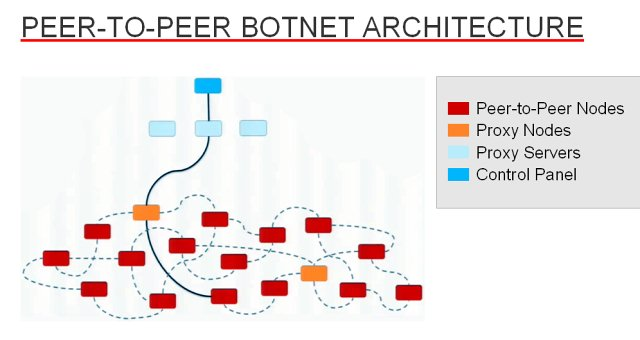
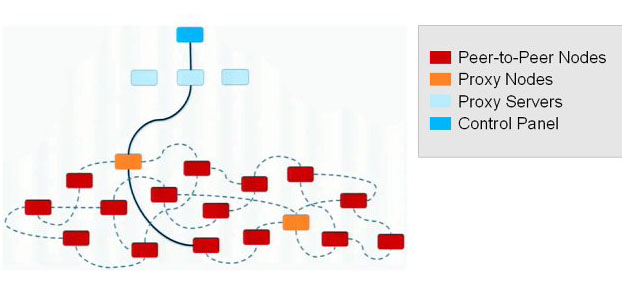
Used cropped image instead of one with title.

Changed region(s): [[0.0, 0.0311, 1.0, 0.9654]]

diff --git a/main.tex b/main.tex
@@ -71,7 +71,7 @@ Generally speaking, botnets conform to the analogy of a bank robbery: first, the
 \cite{wikipedia:phishing}.  On the other hand, botnets that use trojan-horses like Zeus collect sensitive information from victims by injecting web content into otherwise secure websites, keylogging, and remote access\cite{defcon:javascript}
 \cite{blackhat:zeus}
 \cite{defcon:spam}
-\cite{wikipedia:trojan}. In most schemes, information and commands are exchanged between the harvester bots (which collect information) and the botmaster through an impure peer-to-peer network through the use of relay nodes and proxy servers. Innovative schemes, such as the VOIP botnet proposed by Itzik Kotler et. al of Security Art, would improve on the traditional botnet model by eliminating the need to exfiltrate data to a central server\cite{defcon:voip}.
+\cite{wikipedia:trojan}. In most schemes, information and commands are exchanged between the harvester bots (which collect information) and the botmaster through an impure peer-to-peer network through the use of relay nodes and proxy servers. Innovative schemes, such as the VOIP botnet proposed by Itzik Kotler et al. of Security Art, would improve on the traditional botnet model by eliminating the need to exfiltrate data to a central server\cite{defcon:voip}.
 
 Our objective in this paper is to explain the way in which bot programs are implemented, with the hope that future development can address each of the weaknesses they rely on for their continued existence.  In this paper, we examine features across all stages of the bot program, as implemented by real botnets such as Zeus and ZeroAccess.
 
@@ -152,7 +152,7 @@ Due to the prominence of IRC as a method for botnets to communicate, many corpor
 
 HTTP is often combined with peer-to-peer networking in a \emph{gossip protocol}. This kind of protocol relies on nodes passing on information that is learned to other nodes, thereby propagating it throughout the network. Gossip protocols are employed by peer-to-peer botnets \cite{defcon:prowling}, but can be utilized by hierarchical command and control botnets as well. Due to the need for communication to spread by nodes, the propagation speed is usually slower than direct messaging. However in larger botnets, this reduces the strain on the central C\&C server by delegating the command passing to other bots; it also has the effect of diffusing traffic throughout the botnet, thereby improving the network's overall resilience and reducing the likelihood that the botnet will be detected.
 
-Ollmann et. al classified gossip-based C\&C botnets into several topological groups\cite{ollmann:topology}, some of which appear to have counterparts to the IRC substructures. One of these is called the \emph{Star topology}. In this setup, each bot communicates directly with a single, centralized C\&C server. Another topology, similar to the idea of bridged botnets, is the multi-server C\&C topology. As the name implies, this method introduces several servers that act as command and control servers to the botnet. In a hierarchical topology, bots are organized in a hierarchy, and bots that are higher up in the hierarchy can issue commands to bots further down in the tree.
+Ollmann et al. classified gossip-based C\&C botnets into several topological groups\cite{ollmann:topology}, some of which appear to have counterparts to the IRC substructures. One of these is called the \emph{Star topology}. In this setup, each bot communicates directly with a single, centralized C\&C server. Another topology, similar to the idea of bridged botnets, is the multi-server C\&C topology. As the name implies, this method introduces several servers that act as command and control servers to the botnet. In a hierarchical topology, bots are organized in a hierarchy, and bots that are higher up in the hierarchy can issue commands to bots further down in the tree.
 
 \section{How Data is Exfiltrated from Harvester Bots}
 %Evolution of Collection/Anonymity (the getaway car)
@@ -168,7 +168,7 @@ There are several alternative methods as well. Several botnets, such as Mevade (
 
 The reason for the attention on this botnet was due to the sudden increase in traffic within the Tor network after Mevade changed their communication methods \cite{darkreading:tor}. Evidently botnets risk detection if they cause too much suspicious network traffic, and so should have design considerations to that end. Most botnets are programmed so that an individual bot does not perform any actions without instructions from the botmaster\cite{honeynet:appendix}. 
 
-As another example of minimizing suspicious traffic, a commercial botnet was developed to buy cars included error validation functions\cite{defcon:cars}. This functionality was added to avoid an IP ban from server administrators; had there been no error validation, the server administrators could’ve potentially noticed that a large amount of invalid traffic was being generated from a single IP address.
+As another example of minimizing suspicious traffic, a commercial botnet was developed to buy cars included error validation functions\cite{defcon:cars}. This functionality was added to avoid an IP ban from server administrators; had there been no error validation, the server administrators could have potentially noticed that a large amount of invalid traffic was being generated from a single IP address.
 
 Recently, researchers identified the potential for VOIP-based botnets.  VOIP, or voice over IP, is a protocol used for performing phone and conference calls over the internet.  A VOIP-based botnet could leverage any unused conference call numbers in order to exfiltrate data by phone.  By using digital-tone multi-frequency signalling as a means of encoding and decoding between binary and sound, hackers would be utilize the channel in the same way that IP uses bytes.  In addition to providing the botmaster with an anonymous form of communication, VOIP botnets:
 
@@ -220,7 +220,7 @@ Common disruption techniques include sinkholing (in which bots are redirected to
 \item Fallback Prevention - many botnets have mechanisms that allow the bots to communicate directly with the command and control center in the event of a sinkhole attack.  Attackers must somehow disable the fallback channel or prevent bots from entering their fallback mode.
 \end{itemize}
 
-Botnets in the wild have employed a number of defenses against sinkhole attacks.  For example, the Sality botnet uses a reputation scheme in which each bot keeps track of the reputation of its neighbouring peers; reputation is increased by correctly responding to requests, and decreased by incorrectly responding to requests. Peers shared their peer lists only with other machines with high reputation, and only allow peer list entries with low reputations to be overwritten. Stone Gross et. al reverse-engineered the protocol to the extent that they could create their own high-reputation node, and they found ways to poison existing high-reputation nodes by overwriting their port numbers \cite{stone:p2p}.
+Botnets in the wild have employed a number of defenses against sinkhole attacks.  For example, the Sality botnet uses a reputation scheme in which each bot keeps track of the reputation of its neighbouring peers; reputation is increased by correctly responding to requests, and decreased by incorrectly responding to requests. Peers shared their peer lists only with other machines with high reputation, and only allow peer list entries with low reputations to be overwritten. Stone Gross et al. reverse-engineered the protocol to the extent that they could create their own high-reputation node, and they found ways to poison existing high-reputation nodes by overwriting their port numbers \cite{stone:p2p}.
 
 On the other hand, the Zeus network uses a different scheme to prevent and mitigate sinkholing. Zeus bots announce their presence by sending requests to other bots on their peer list; upon receiving a request, Zeus bots add the source to its peer list if it knows fewer than 50 peers.  Zeus accounts for IP churn by assigning unique IDs to each bot, and updating the IP address whenever it receives an update for the bot identified with an ID it knows about.  Zeus mitigates the effect of spoofing through the use of an automated IP-based blacklist, which blocks IP addresses with high request rates \cite{stone:p2p}.
 
@@ -231,7 +231,7 @@ Domain generation algorithms, also known as domain flux and fast flux, grant bot
 
 \subsection{Mathematical Underpinning of Botnets}
 
-Researchers have proposed a variety of metrics for quantitatively measuring the robustness and efficiency of botnets.  Both attributes matter from a security perspective: efficient botnets produce less traffic, and therefore go undetected for longer.  The robustness of the network, on the other hand, is the major aim of peer-to-peer network structures such as those implemented for botnets such as Zeus and ZeroAccess.  Botnets routinely gain and lose new members over time; a higher degree of connections between bots provides fault tolerance and recovery, as well as resilience against attacks such as sinkholing\cite{botnet:metrics}.  Dagon et. al proposed a number of metrics for measuring the robustness of a botnet, such as the following:
+Researchers have proposed a variety of metrics for quantitatively measuring the robustness and efficiency of botnets.  Both attributes matter from a security perspective: efficient botnets produce less traffic, and therefore go undetected for longer.  The robustness of the network, on the other hand, is the major aim of peer-to-peer network structures such as those implemented for botnets such as Zeus and ZeroAccess.  Botnets routinely gain and lose new members over time; a higher degree of connections between bots provides fault tolerance and recovery, as well as resilience against attacks such as sinkholing\cite{botnet:metrics}.  Dagon et al. proposed a number of metrics for measuring the robustness of a botnet, such as the following:
 
 \begin{itemize}
 \item inverse geodesic distance (a normalized measurement which reflects the overall connectivity of the botnet network topology)
